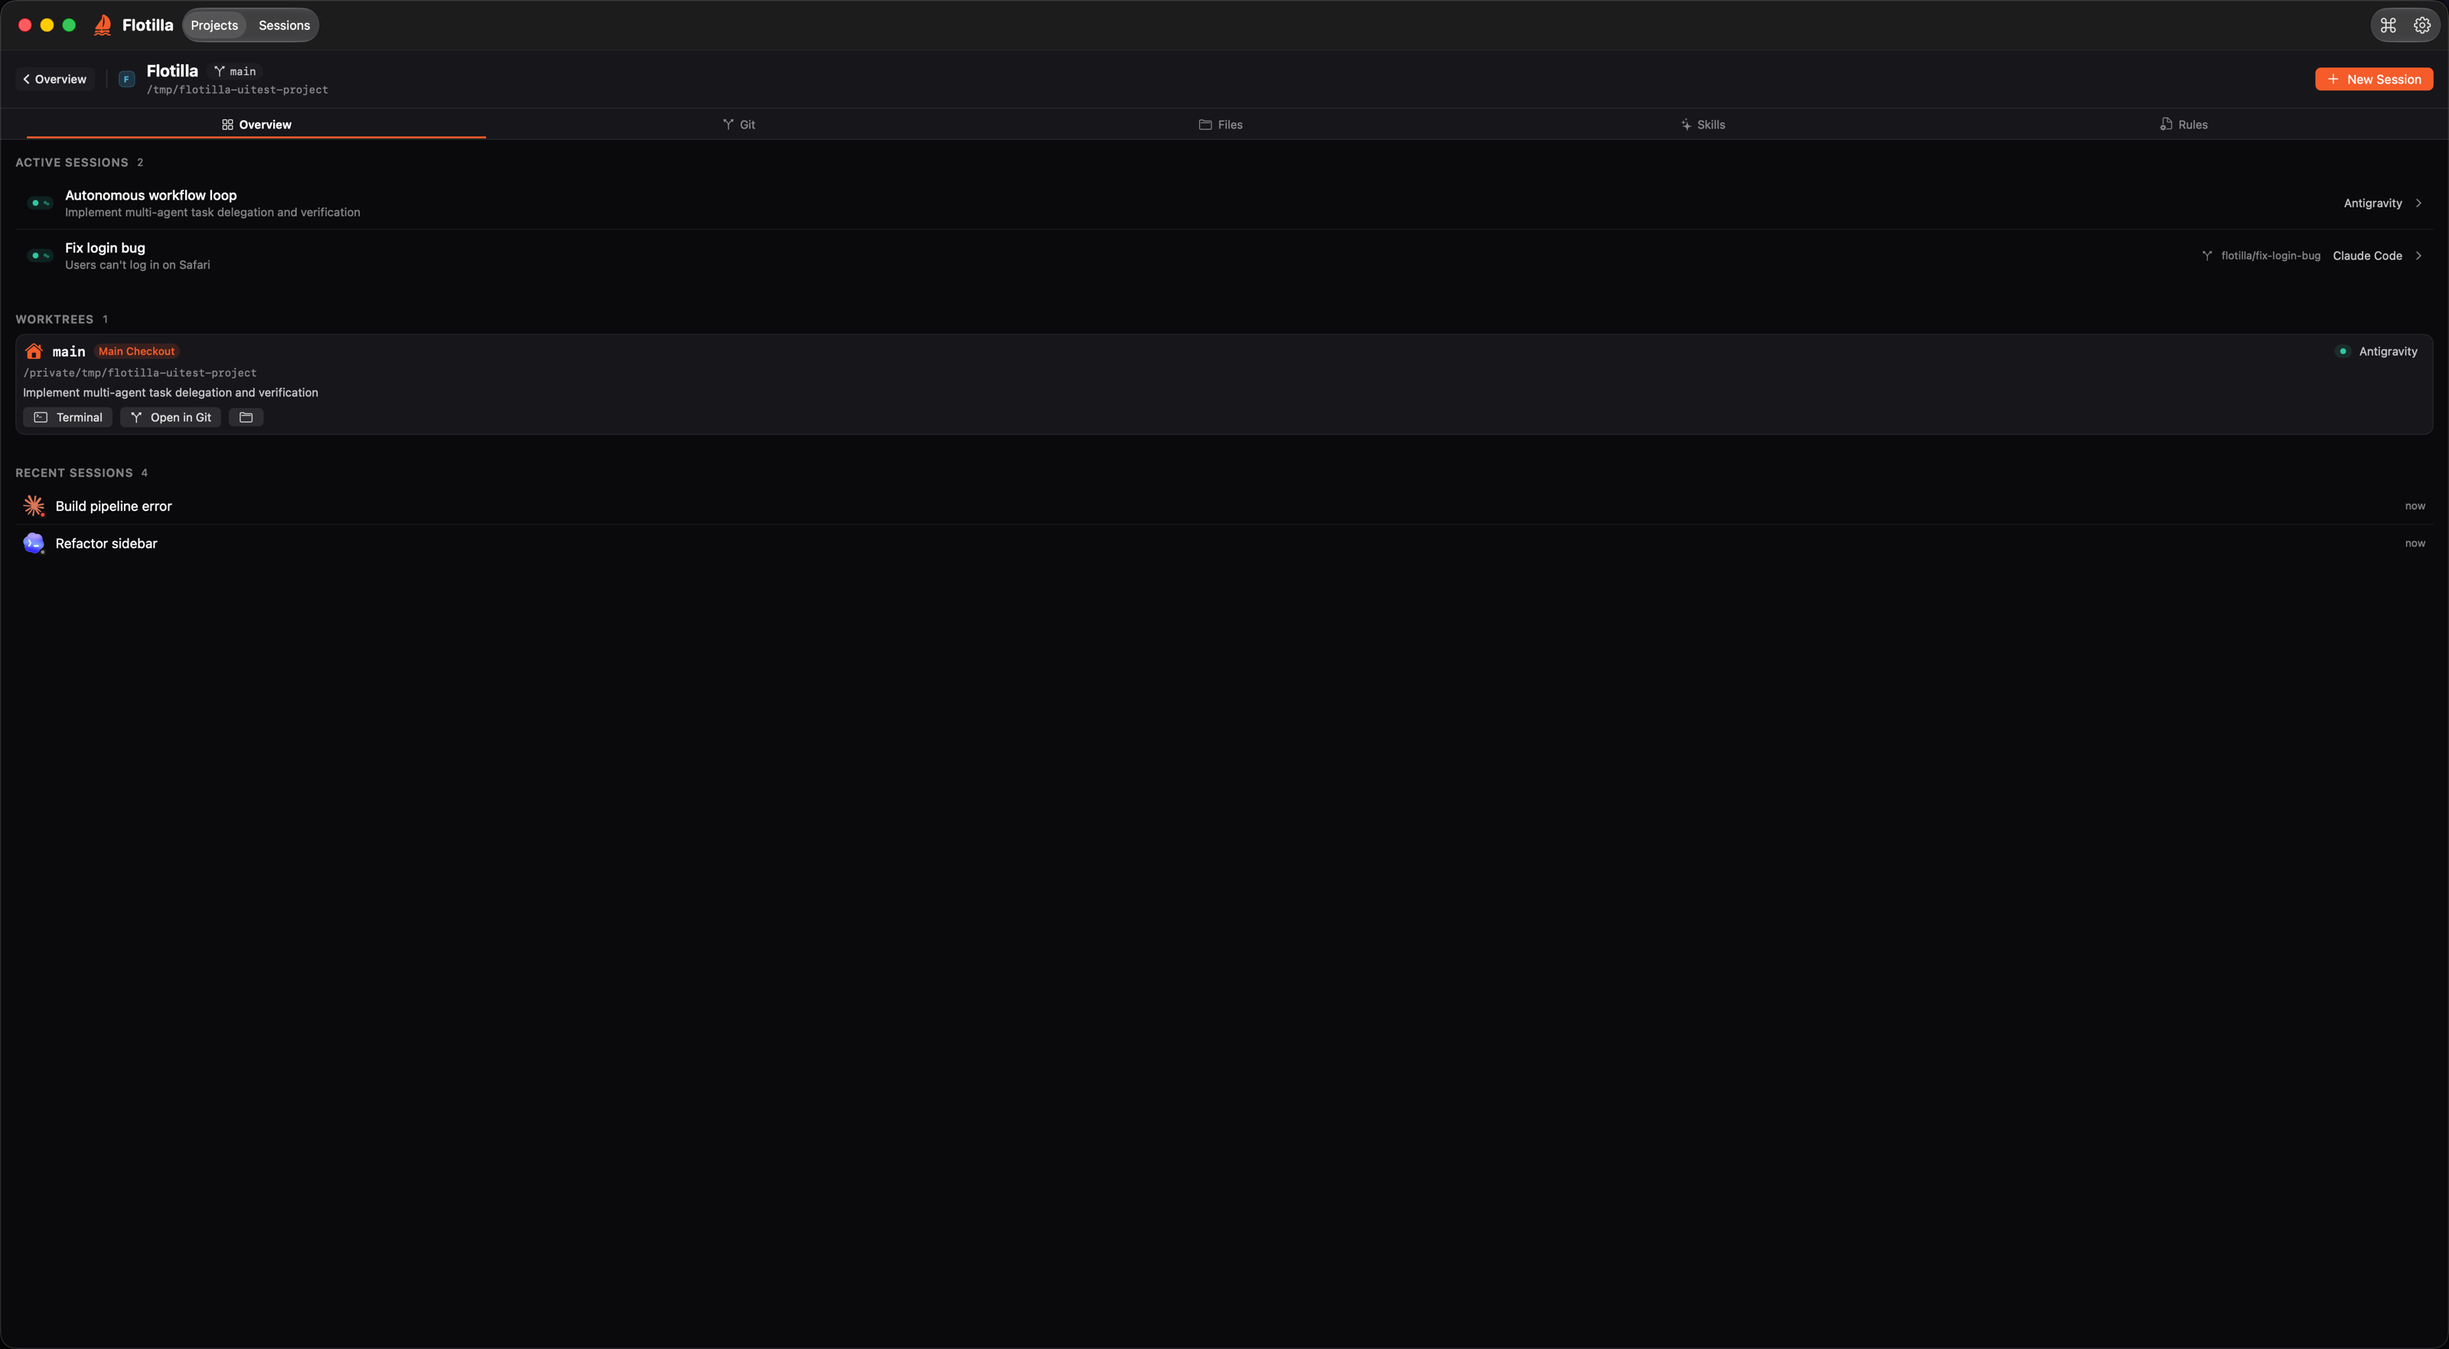
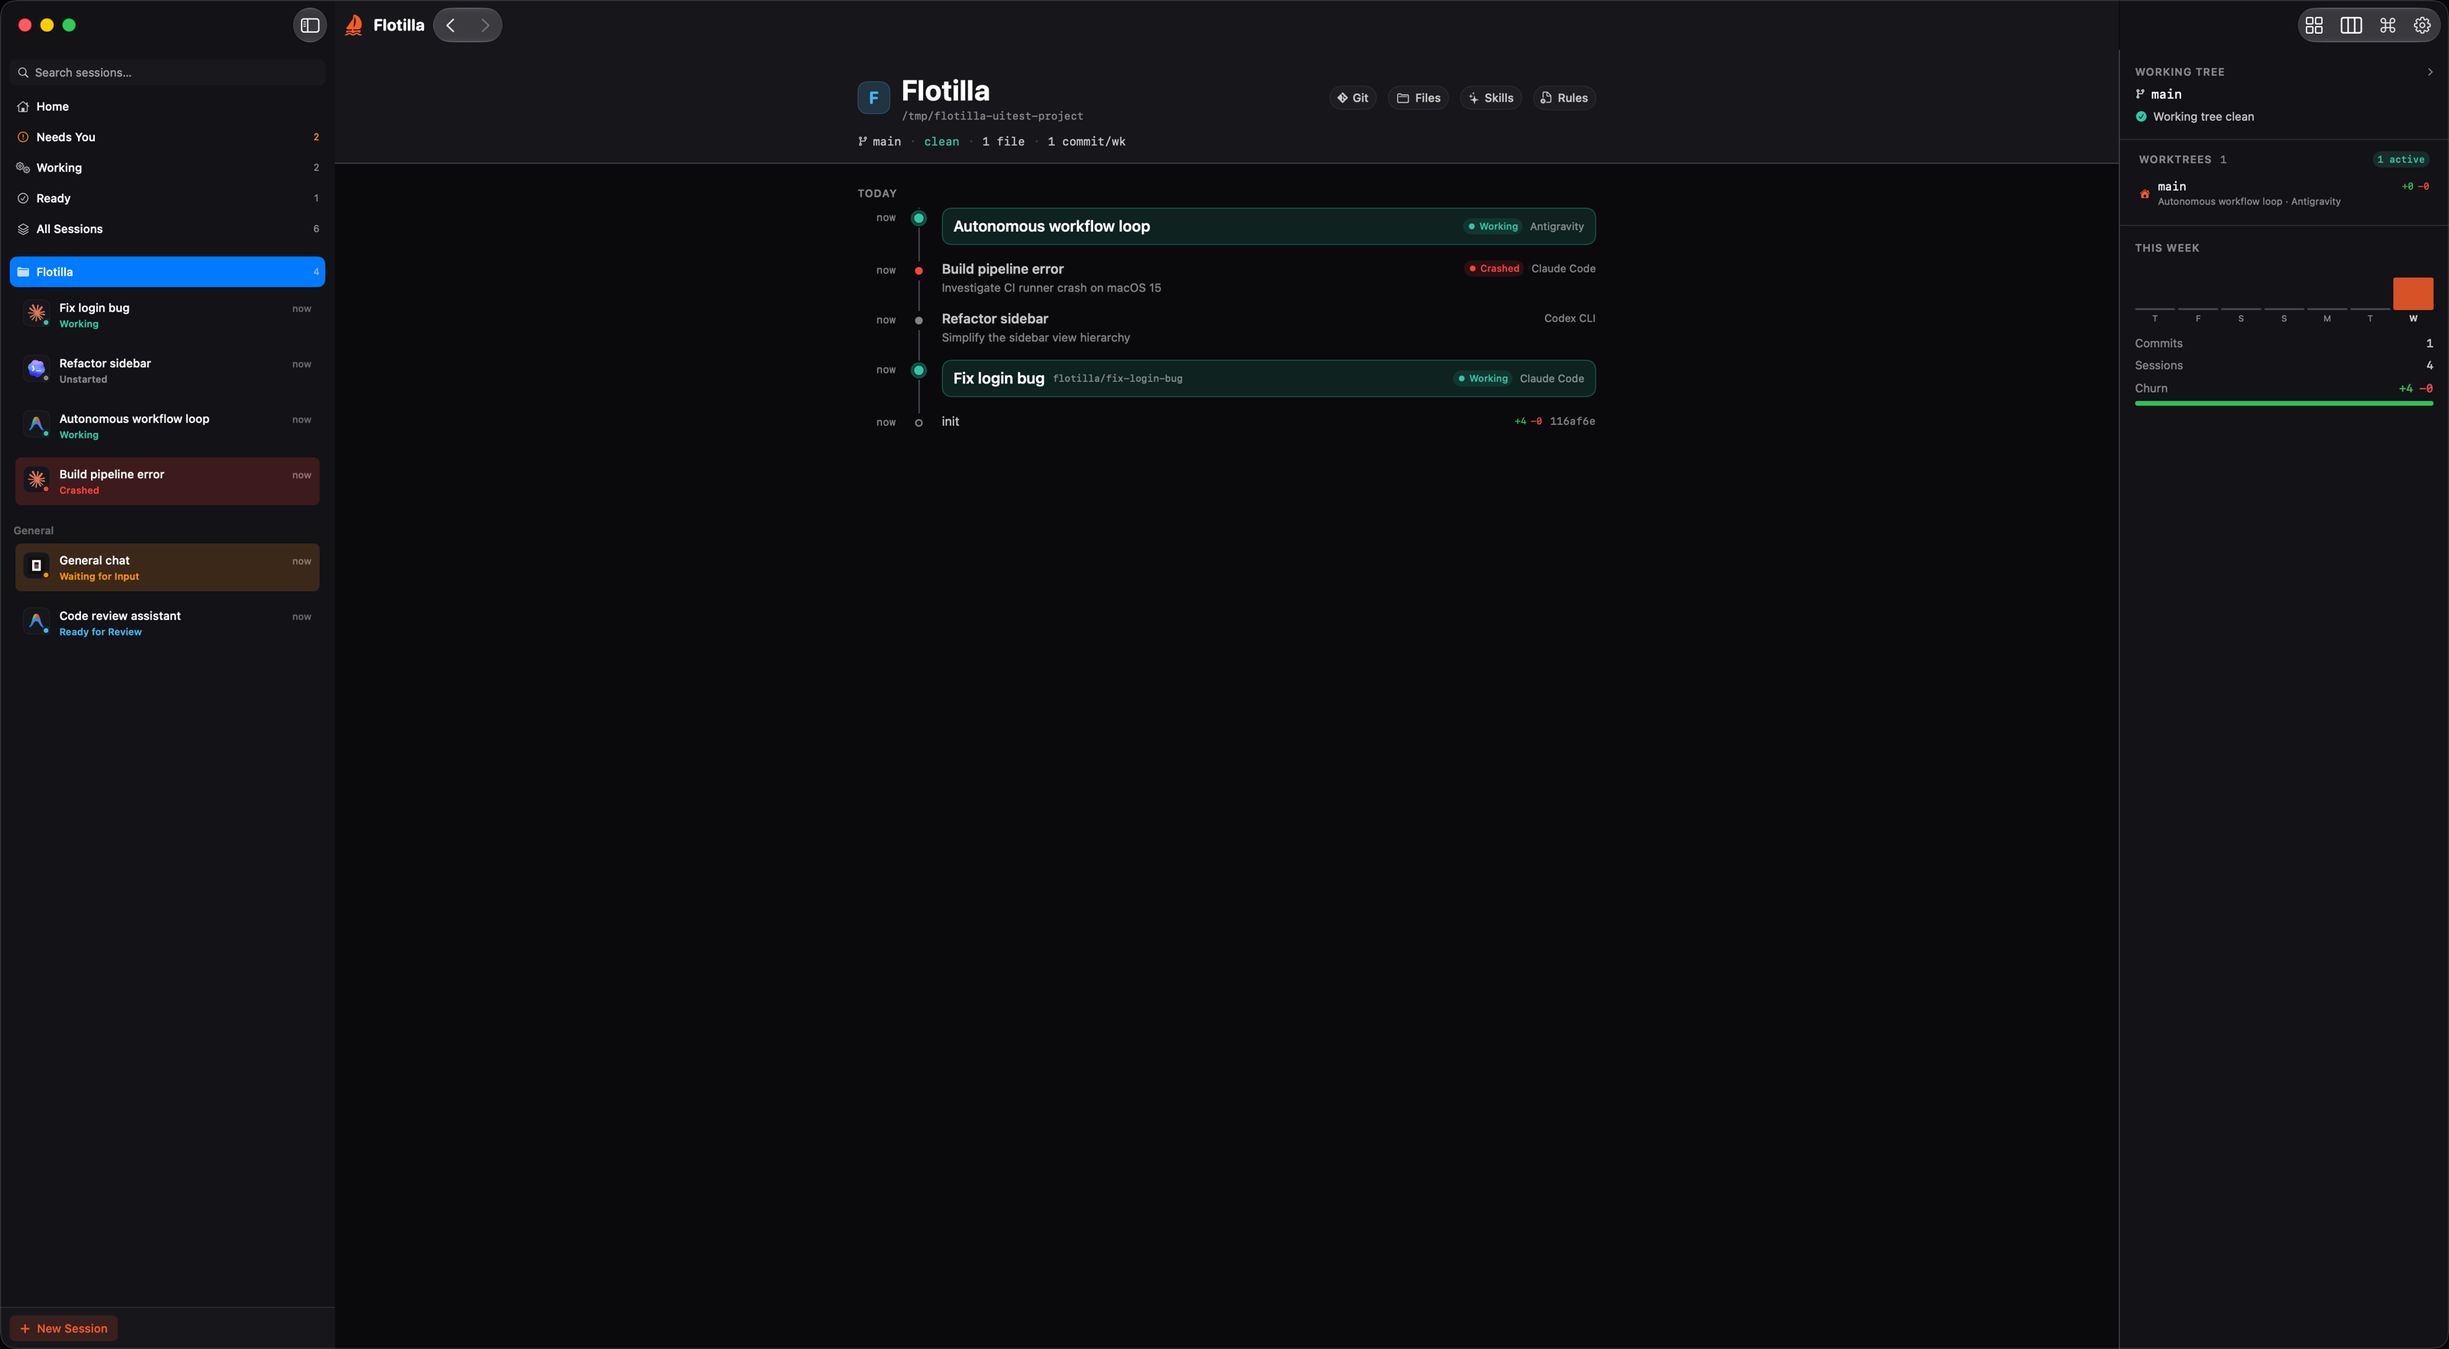
docs(ui-vocabulary): regenerate visual reference and re-shoot screenshots
- ui-vocabulary.md figure section is now generated between BEGIN/END
  GENERATED FIGURES markers: one image per line instead of multi-column
  tables, so it can't drift.
- VocabularyScreenshotUITests gains fillGrid and returnToProjectOverview
  helpers so grid and project-surface captures are reached reliably.
- AGENTS.md describes the Markdown-rewriting step of the publish pipeline.
- Re-shot all 21 ui-vocabulary PNGs.

Flotilla-Agent: claudeCode
Flotilla-Session: 2CFA3BE0-7DF5-4B1E-B5F6-E53BFD9B643E

diff --git a/FlotillaUITests/VocabularyScreenshotUITests.swift b/FlotillaUITests/VocabularyScreenshotUITests.swift
@@ -265,6 +265,33 @@ final class VocabularyScreenshotUITests: XCTestCase {
         Self.note("NAVFAIL   no presentation button '\(title)'")
     }
 
+    /// The grid always launches empty — membership is explicit and nothing is
+    /// a member on a fresh launch. Fill it from the lit group; if the toolbar
+    /// control is still animating in, fall back to the documented sidebar
+    /// gesture (a single click toggles grid membership while the grid is up).
+    private func fillGrid(_ app: XCUIApplication) {
+        if let addAll = largestMatch(app, "Grid.AddAllButton", timeout: 8) {
+            addAll.click()
+            settle(0.8)
+        }
+        if largestMatch(app, "GridView", timeout: 2) == nil {
+            for title in ["Fix login bug", "Refactor sidebar", "Autonomous workflow loop"] {
+                _ = click(app, "SessionRow-\(title)", timeout: 2)
+            }
+            settle(0.8)
+        }
+    }
+
+    /// Opening a surface (Git / Files / Skills / Rules) swaps the masthead —
+    /// and the surface links it carries — for the return breadcrumb, so the
+    /// next surface has to be reached back through Overview. Silent when the
+    /// workspace is already on Overview.
+    private func returnToProjectOverview(_ app: XCUIApplication) {
+        guard let bar = largestMatch(app, "Project.ReturnToOverview", timeout: 2) else { return }
+        bar.click()
+        settle(0.6)
+    }
+
     private func assertCaptured(_ names: [String]) {
         let missing = names.filter { !Self.capturedNames.contains($0) }
         XCTAssertTrue(missing.isEmpty, "Missing documentation captures: \(missing.joined(separator: ", "))")
@@ -292,7 +319,7 @@ final class VocabularyScreenshotUITests: XCTestCase {
         shootElement(app, id: "SessionRow-Fix login bug", "09-session-sidebar-row", "Session row")
 
         choosePresentation(app, "Grid")
-        click(app, "Grid.AddAllButton")
+        fillGrid(app)
         settle(1.0)
         shootWindow(app, "10-presentation-grid", "Grid presentation")
         shootElement(app, id: "GridView", "11-grid-view", "Mission control grid")
@@ -381,14 +408,17 @@ final class VocabularyScreenshotUITests: XCTestCase {
             }
         }
 
+        returnToProjectOverview(app)
         if clickButton(app, title: "Files", identifier: "ProjectDetail.ModeTab-Files") {
             settle(1.0)
             shootWindow(app, "37-project-files", "File tree and editor pane")
         }
+        returnToProjectOverview(app)
         if clickButton(app, title: "Skills", identifier: "ProjectDetail.ModeTab-Skills") {
             settle(1.0)
             shootWindow(app, "39-project-skills", "Knowledge catalog ledger")
         }
+        returnToProjectOverview(app)
         if clickButton(app, title: "Rules", identifier: "ProjectDetail.ModeTab-Rules") {
             settle(1.0)
             shootWindow(app, "40-project-rules", "Rules knowledge catalog")

diff --git a/docs/ui-vocabulary.md b/docs/ui-vocabulary.md
@@ -271,34 +271,57 @@ in the same change.
 
 These screenshots are navigation aids for the vocabulary above, not pixel-accuracy specifications. They use Flotilla's deterministic UI-testing fixtures.
 
+<!-- BEGIN GENERATED FIGURES · Scripts/update-ui-vocabulary-screenshots.swift -->
+
 ### Shell, Home, and Sessions
 
-| Window shell with Home dashboard | Sessions facet with session list |
-| --- | --- |
-| ![Flotilla window shell showing the navigation rail and Home dashboard](images/ui-vocabulary/shell-home-dashboard.png) | ![Sessions facet showing the navigation rail, session list, and detail column](images/ui-vocabulary/sessions-facet.png) |
+**Window shell with Home dashboard**
+
+![Flotilla window shell showing the navigation rail and Home dashboard](images/ui-vocabulary/shell-home-dashboard.png)
+
+**Sessions facet with session list**
+
+![Sessions facet showing the navigation rail, session list, and detail column](images/ui-vocabulary/sessions-facet.png)
 
 The Home view above contains the **composer**, **summary line**, **attention queue**, **recent sessions**, and **projects gallery** named in sections 1 and 2.
 
 ### Fleet presentations and session cards
 
-| Grid presentation | Grid tile / session card |
-| --- | --- |
-| ![Grid presentation with its toolbar and three terminal tiles](images/ui-vocabulary/grid-presentation.png) | ![A grid tile showing the tile header, status, branch, focus control, and terminal surface](images/ui-vocabulary/grid-tile.png) |
-| **Board presentation** | **Focus presentation** |
-| ![Board presentation with status columns and session cards](images/ui-vocabulary/board-presentation.png) | ![Focus presentation with one terminal occupying the detail column](images/ui-vocabulary/focus-presentation.png) |
+**Grid presentation**
+
+![Grid presentation with its toolbar and three terminal tiles](images/ui-vocabulary/grid-presentation.png)
+
+**Grid tile / session card**
+
+![A grid tile showing the tile header, status, branch, focus control, and terminal surface](images/ui-vocabulary/grid-tile.png)
+
+**Board presentation**
+
+![Board presentation with status columns and session cards](images/ui-vocabulary/board-presentation.png)
+
+**Focus presentation**
+
+![Focus presentation with one terminal occupying the detail column](images/ui-vocabulary/focus-presentation.png)
 
 ### Project workspace
 
-> These two images predate the Stream redesign and need re-shooting; the current
-> workspace is the masthead + activity feed + context column described above.
+The Stream workspace: the masthead over the activity feed on the left, the context column on the right.
+
+**Project workspace — activity feed and context column**
 
 ![Project workspace — activity feed and context column](images/ui-vocabulary/project-overview.png)
 
+**The worktrees block in the context column**
+
 ![The worktrees block in the context column](images/ui-vocabulary/worktree-section.png)
 
-| Commit graph and history | Knowledge catalog ledger |
-| --- | --- |
-| ![Git Commits tab showing the commit graph, history list, and commit detail](images/ui-vocabulary/commit-graph.png) | ![Skills tab showing the knowledge catalog ledger and inspector](images/ui-vocabulary/knowledge-ledger.png) |
+**Commit graph and history**
+
+![Git Commits tab showing the commit graph, history list, and commit detail](images/ui-vocabulary/commit-graph.png)
+
+**Knowledge catalog ledger**
+
+![Skills tab showing the knowledge catalog ledger and inspector](images/ui-vocabulary/knowledge-ledger.png)
 
 **Knowledge detail**
 
@@ -306,19 +329,31 @@ The Home view above contains the **composer**, **summary line**, **attention que
 
 ### Diff and files
 
-| Diff panel | File browser |
-| --- | --- |
-| ![Git Changes tab showing a populated diff panel and changed file row](images/ui-vocabulary/diff-panel.png) | ![Files tab showing the file browser's tree and editor pane](images/ui-vocabulary/file-browser.png) |
+**Diff panel**
 
-| File tree region | Editor pane region |
-| --- | --- |
-| ![File tree with filter field and selected README file](images/ui-vocabulary/file-tree.png) | ![Editor pane showing a rendered Markdown preview and its toolbar](images/ui-vocabulary/editor-pane.png) |
+![Git Changes tab showing a populated diff panel and changed file row](images/ui-vocabulary/diff-panel.png)
+
+**File browser**
+
+![Files tab showing the file browser's tree and editor pane](images/ui-vocabulary/file-browser.png)
+
+**File tree region**
+
+![File tree with filter field and selected README file](images/ui-vocabulary/file-tree.png)
+
+**Editor pane region**
+
+![Editor pane showing a rendered Markdown preview and its toolbar](images/ui-vocabulary/editor-pane.png)
 
 ### Launchers and modals
 
-| New Session window and command bar | Command palette and palette panel |
-| --- | --- |
-| ![New Session window showing the command bar over its scrim](images/ui-vocabulary/new-session-window.png) | ![Command palette floating over the Home dashboard](images/ui-vocabulary/command-palette.png) |
+**New Session window and command bar**
+
+![New Session window showing the command bar over its scrim](images/ui-vocabulary/new-session-window.png)
+
+**Command palette and palette panel**
+
+![Command palette floating over the Home dashboard](images/ui-vocabulary/command-palette.png)
 
 **Delete session sheet**
 
@@ -326,15 +361,25 @@ The Home view above contains the **composer**, **summary line**, **attention que
 
 ### Settings
 
-| Terminal & Editor pane | Git & Worktrees pane | Coding Agents pane |
-| --- | --- | --- |
-| ![Settings window showing the Terminal and Editor pane](images/ui-vocabulary/settings-terminal-editor.png) | ![Settings window showing the Git and Worktrees pane](images/ui-vocabulary/settings-git-worktrees.png) | ![Settings window showing the Coding Agents pane](images/ui-vocabulary/settings-coding-agents.png) |
+**Terminal & Editor pane**
+
+![Settings window showing the Terminal and Editor pane](images/ui-vocabulary/settings-terminal-editor.png)
+
+**Git & Worktrees pane**
+
+![Settings window showing the Git and Worktrees pane](images/ui-vocabulary/settings-git-worktrees.png)
+
+**Coding Agents pane**
+
+![Settings window showing the Coding Agents pane](images/ui-vocabulary/settings-coding-agents.png)
+
+<!-- END GENERATED FIGURES -->
 
 ### Refreshing the visual reference
 
-In Xcode, select the **UI Vocabulary Screenshots** scheme and choose **Product → Test**. The scheme runs only `VocabularyScreenshotUITests`; after every complete, successful capture it validates the manifest, crops the documentation variants, retains a high-resolution 2× master, and republishes the 21 PNGs in `docs/images/ui-vocabulary/`.
+In Xcode, select the **UI Vocabulary Screenshots** scheme and choose **Product → Test**. The scheme runs only `VocabularyScreenshotUITests`; after every complete, successful capture it validates the manifest, crops the documentation variants, retains a high-resolution 2× master, republishes the 21 PNGs in `docs/images/ui-vocabulary/`, and rewrites the figure blocks between the `BEGIN/END GENERATED FIGURES` markers above — one image per line, captions and section headings included. The prose outside those markers is hand-maintained; edit captions, alt text, and section grouping in the `publications` list in `Scripts/update-ui-vocabulary-screenshots.swift`.
 
-Run this workflow from Xcode so the UI-test runner inherits Xcode's Accessibility permission. A failed or partial run leaves the checked-in documentation images unchanged. To retry only the publishing step after a completed run, use:
+Run this workflow from Xcode so the UI-test runner inherits Xcode's Accessibility permission. A failed or partial run leaves the checked-in documentation images and this section unchanged. To retry only the publishing step after a completed run, use:
 
 ```bash
 /bin/bash Scripts/update-ui-vocabulary-screenshots.sh

diff --git a/AGENTS.md b/AGENTS.md
@@ -377,10 +377,10 @@ The pipeline works as follows:
 
 1. The test launches Flotilla with deterministic fixtures, moves capture windows onto the primary display, navigates the documented surfaces, and saves both persistent XCTest attachments and raw Retina PNGs in the UI-test runner's sandbox at `~/Library/Containers/com.niclassslua.FlotillaUITests.xctrunner/Data/Documents/flotilla-vocab-shots/`.
 2. Class teardown writes `manifest.txt`. It contains `COMPLETE  schema=1` only when every image required by the documentation was captured successfully.
-3. The scheme post-action runs `Scripts/update-ui-vocabulary-screenshots.swift`. The publisher validates the completed manifest and all required inputs, derives the documented crops, retains high-resolution output (up to 3,200 px wide for full-window images), and stages the complete 21-image set before writing to `docs/images/ui-vocabulary/`.
-4. If the test is partial, a required capture is missing, or rendering fails, publication stops and the checked-in documentation images remain unchanged.
+3. The scheme post-action runs `Scripts/update-ui-vocabulary-screenshots.swift`. The publisher validates the completed manifest and all required inputs, derives the documented crops, retains high-resolution output (up to 3,200 px wide for full-window images), and stages the complete 21-image set before writing to `docs/images/ui-vocabulary/`. It then rewrites the visual-reference figures in `docs/ui-vocabulary.md` between the `BEGIN/END GENERATED FIGURES` markers — one image per line, from the same `publications` list — so that section never needs hand-editing and can't drift into multi-column tables. Prose outside the markers is untouched.
+4. If the test is partial, a required capture is missing, or rendering fails, publication stops and the checked-in documentation images and Markdown remain unchanged.
 
-After changing a documented surface, capture name, or visual-reference entry, update these together: `VocabularyScreenshotUITests.requiredCaptureNames`, the publication table in `Scripts/update-ui-vocabulary-screenshots.swift`, and the image references in `docs/ui-vocabulary.md`. Run the dedicated scheme, inspect the refreshed PNGs visually, and commit the image changes with the code. To rerun only publication from the most recent complete capture, use:
+After changing a documented surface, capture name, caption, or visual-reference entry, update these together: `VocabularyScreenshotUITests.requiredCaptureNames` and the `publications` list in `Scripts/update-ui-vocabulary-screenshots.swift` (which carries each figure's `section`, `caption`, `alt`, and crop). The `docs/ui-vocabulary.md` figure blocks are regenerated from that list — don't edit them by hand; edit any surrounding prose directly. Run the dedicated scheme, inspect the refreshed PNGs visually, and commit the image and Markdown changes with the code. To rerun only publication from the most recent complete capture, use:
 
 ```bash
 /bin/bash Scripts/update-ui-vocabulary-screenshots.sh
